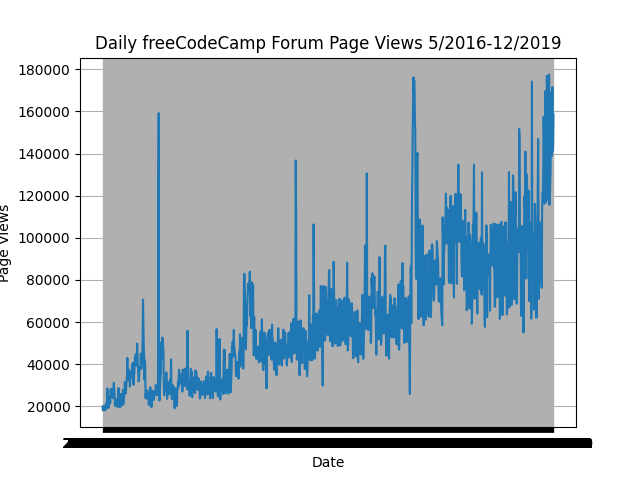
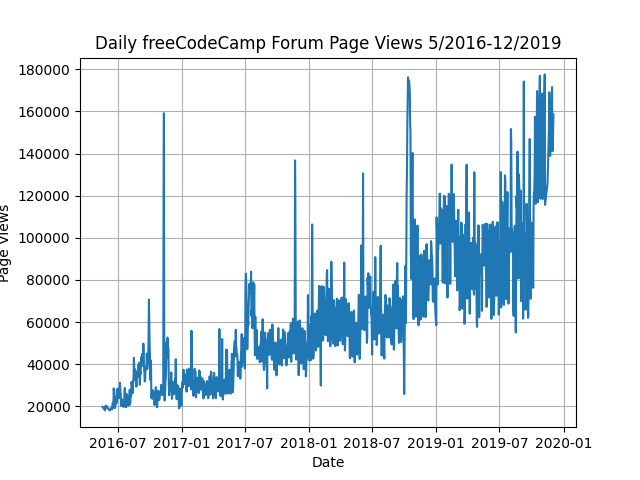
completed

diff --git a/time_series_visualizer.py b/time_series_visualizer.py
@@ -1,11 +1,14 @@
 import matplotlib.pyplot as plt
+import numpy as np
 import pandas as pd
 import seaborn as sns
 from pandas.plotting import register_matplotlib_converters
 register_matplotlib_converters()
 
 # Import data (Make sure to parse dates. Consider setting index column to 'date'.)
-df = pd.read_csv('fcc-forum-pageviews.csv',index_col = 'date')
+df = pd.read_csv('fcc-forum-pageviews.csv')
+df['date'] = pd.to_datetime(df['date'])
+df.set_index('date', inplace = True)
 
 # Clean data
 df = df.loc[(df['value'] >= df['value'].quantile(0.025)) &
@@ -28,11 +31,28 @@ def draw_line_plot():
 
 def draw_bar_plot():
     # Copy and modify data for monthly bar plot
-    df_bar = None
+    df_bar = df.copy()
+    df_bar['month'] = df_bar.index.month_name()
+    df_bar['year'] = df_bar.index.year
+    df_bar = df_bar.groupby([df_bar['month'], df_bar['year']])['value'].mean()
+    df_bar = df_bar.reorder_levels(['year','month']).sort_index()
+    df_bar = df_bar.unstack()
+    month_order = ['January', 'February', 'March', 'April', 'May', 'June', 'July', 'August', 'September', 'October', 'November', 'December']
+    df_bar = df_bar[month_order]
 
     # Draw bar plot
-
-
+    xpos = np.arange(len(df_bar.index))
+    width = 0.05
+    fig, ax = plt.subplots()
+    for i, month in enumerate(df_bar.columns):
+        ax.bar(xpos+i*width,df_bar[month].values,width,label=month)
+    ax.set_xticks(xpos+width*6)
+    ax.set_xticklabels(df_bar.index.astype(str))
+    ax.set_title('Average Monthly freeCodeCamp Forum Page Views 5/2016-12/2019')
+    ax.set_xlabel('Years')
+    ax.set_ylabel('Average Page Views')
+    ax.legend(title = 'Month')
+    ax.grid(True)
 
 
 
@@ -46,9 +66,19 @@ def draw_box_plot():
     df_box.reset_index(inplace=True)
     df_box['year'] = [d.year for d in df_box.date]
     df_box['month'] = [d.strftime('%b') for d in df_box.date]
+    month_order2 = ['Jan', 'Feb', 'Mar', 'Apr', 'May', 'Jun', 'Jul', 'Aug', 'Sep', 'Oct', 'Nov', 'Dec']
 
     # Draw box plots (using Seaborn)
+    fig, axes = plt.subplots(1,2, figsize = (15,6))
+    sns.boxplot(df_box, x='year',y='value', ax=axes[0])
+    axes[0].set_title('Year-wise Box Plot (Trend)')
+    axes[0].set_xlabel('Year')
+    axes[0].set_ylabel('Page Views')
 
+    sns.boxplot(df_box, x='month',y='value', ax=axes[1], order=month_order2)
+    axes[1].set_title('Month-wise Box Plot (Seasonality)')
+    axes[1].set_xlabel('Month')
+    axes[1].set_ylabel('Page Views')
 
 
 

diff --git a/main.py b/main.py
@@ -1,23 +1,11 @@
 # This entrypoint file to be used in development. Start by reading README.md
-###import time_series_visualizer
-###from unittest import main
+import time_series_visualizer
+from unittest import main
 
 # Test your function by calling it here
-###time_series_visualizer.draw_line_plot()
-###time_series_visualizer.draw_bar_plot()
-###time_series_visualizer.draw_box_plot()
+time_series_visualizer.draw_line_plot()
+time_series_visualizer.draw_bar_plot()
+time_series_visualizer.draw_box_plot()
 
 # Run unit tests automatically
-###main(module='test_module', exit=False)
-
-import pandas as pd
-import numpy as np
-import matplotlib.pyplot as plt
-import seaborn as sns
-from pandas.plotting import register_matplotlib_converters
-register_matplotlib_converters()
-
-df = pd.read_csv('fcc-forum-pageviews.csv',index_col = 'date')
-df = df.loc[(df['value'] >= df['value'].quantile(0.025)) &
-                (df['value'] <= df['value'].quantile(0.975))]
-print(df.index.month().unique())
+main(module='test_module', exit=False)
